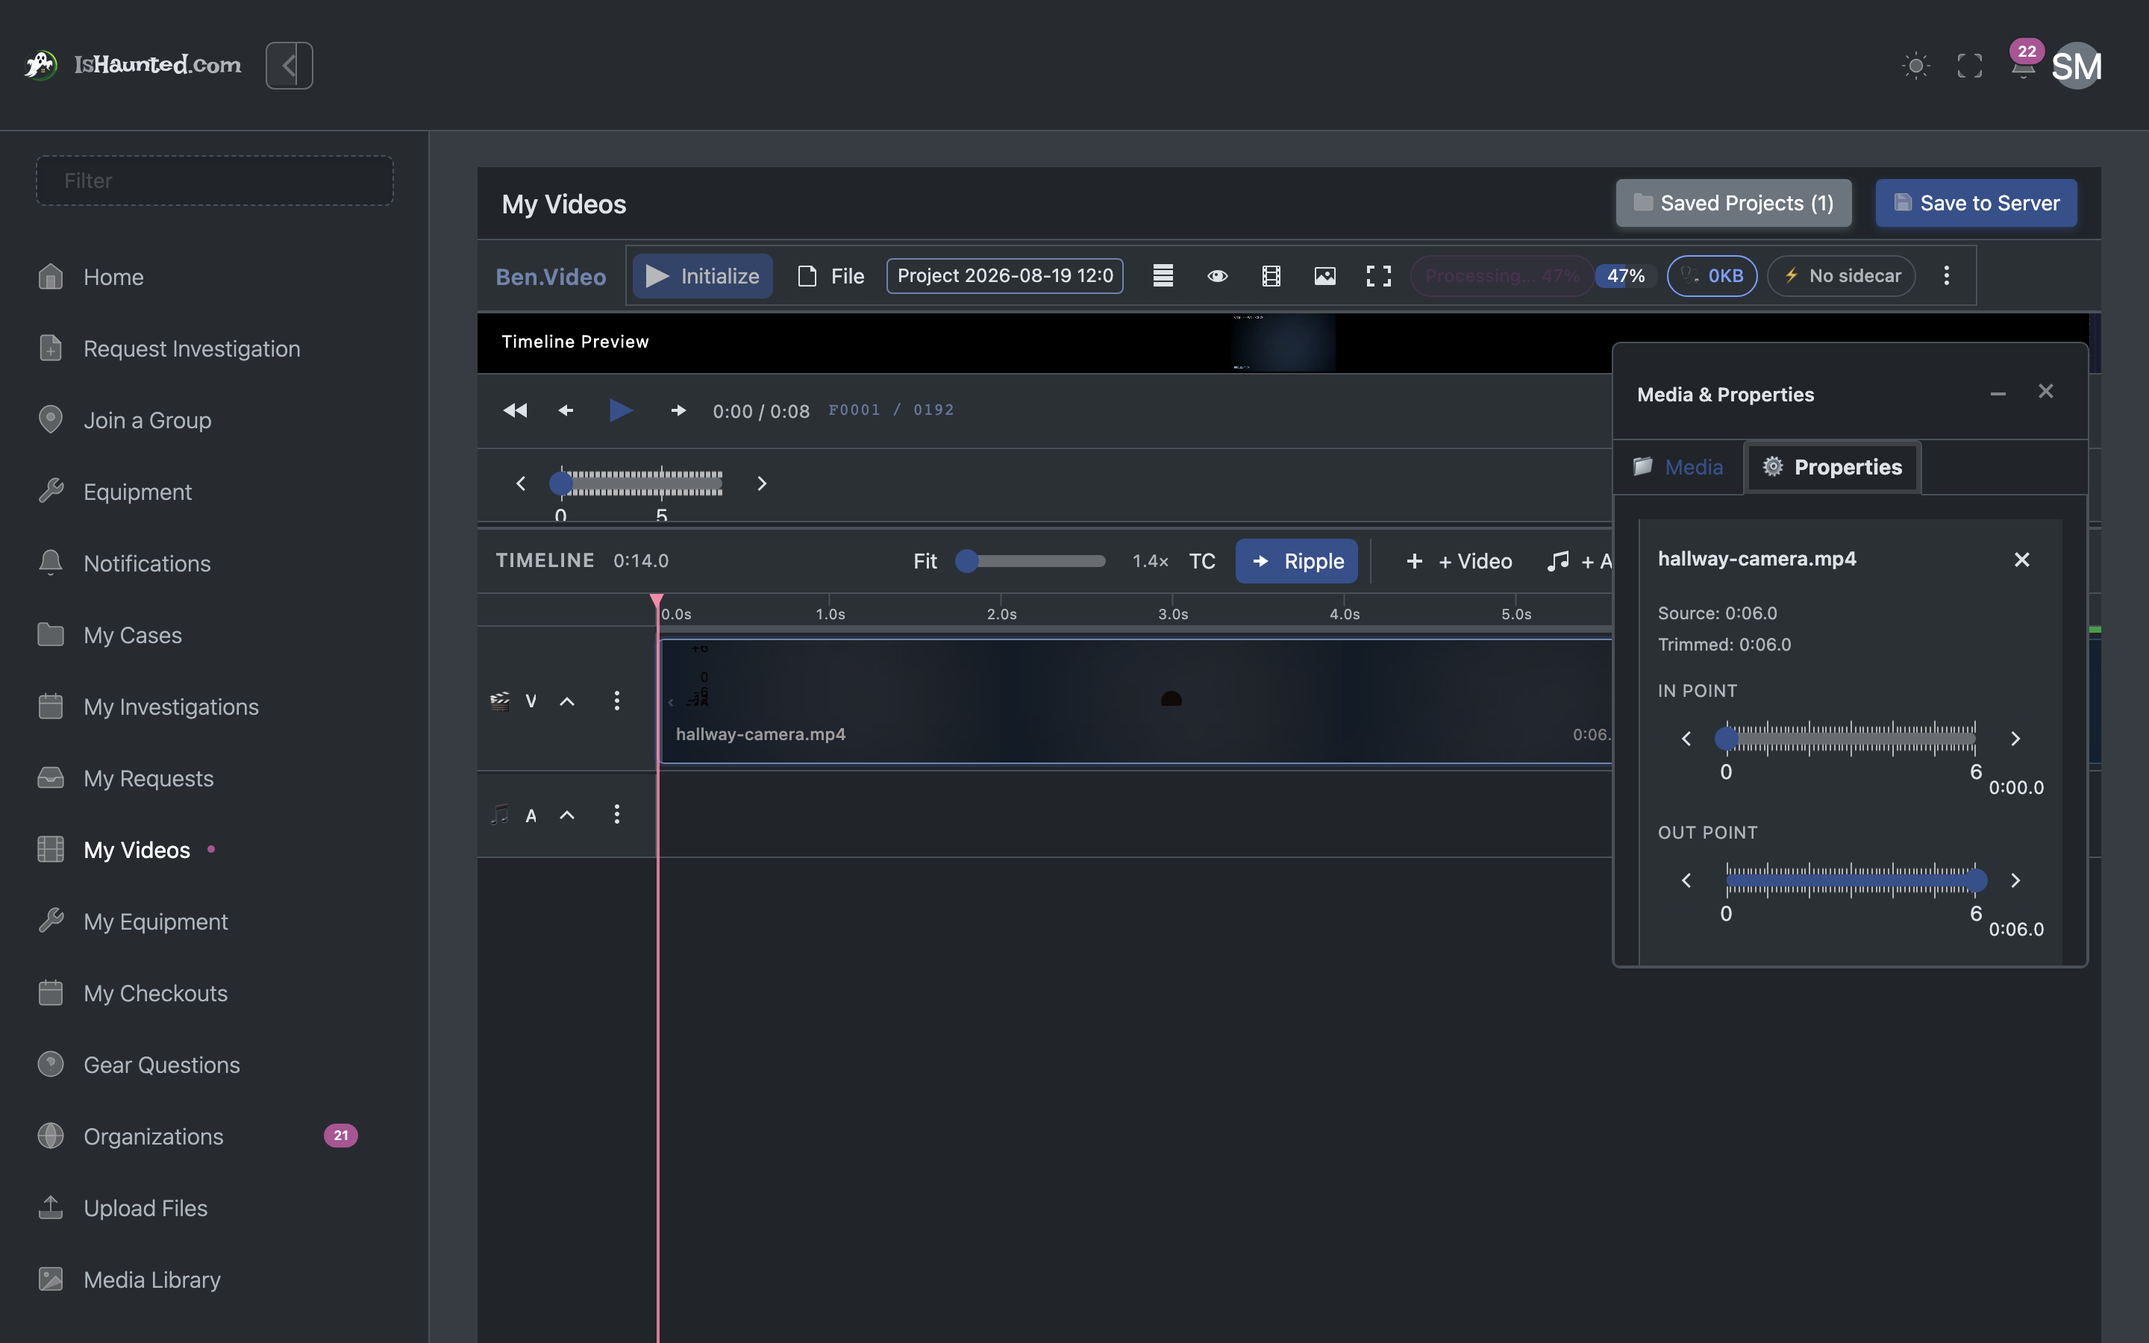
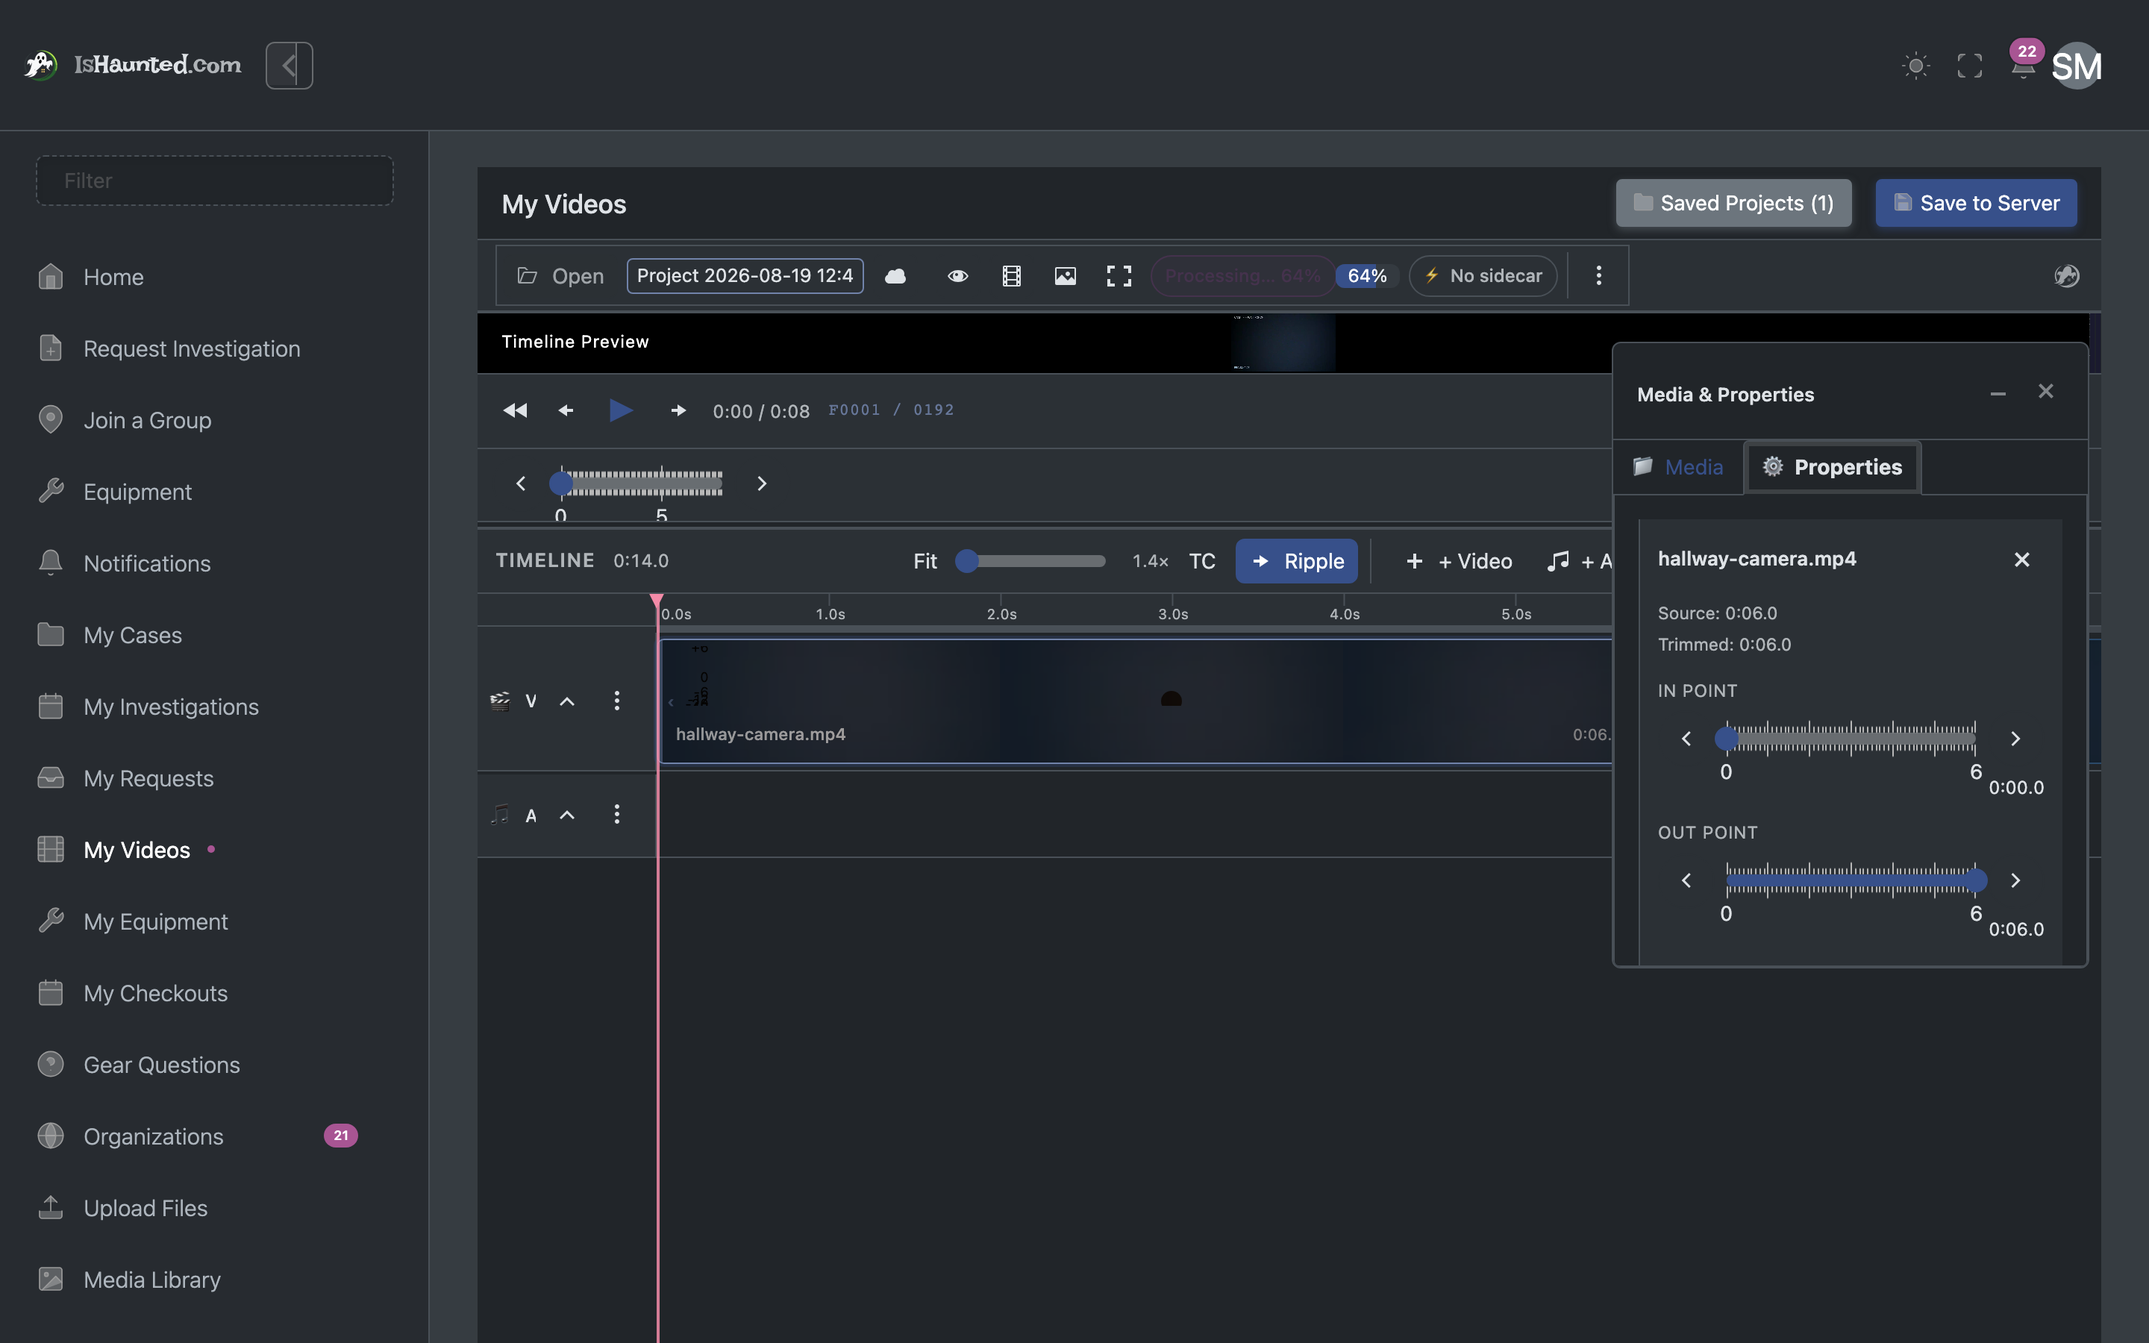
fix: a clip with no audio produced a render command ffmpeg refuses
Backlog item 94, partly. BuildBackgroundRenderVideoArgs decided whether to
map audio from the export settings and the clip's mute flag, never from
whether the source has an audio stream at all. A video-only file — a
screen recording, a trail camera, an exported animation, or the demo
footage added yesterday — took the "has audio" branch and emitted
-map 0:a, which ffmpeg refuses outright:

    Stream map '' matches no streams.

Verified against the real binary rather than assumed. The probe already
found the audio stream to read its duration; it now reports whether there
was one, VideoClip.HasAudio carries it, and the builder attaches the same
silent anullsrc track it already used for muted clips, so segments keep
the identical audio layout that stream-copy concat depends on.

HasAudio defaults to true so a project saved before this comes back with
its sound rather than silently muted — the worse of the two failures,
because nothing about it looks wrong.

This is not the whole of item 94: the stall moved from 47% to 64% and
still happens when a clip is selected. The note there records what the
evidence now says — a command hung in the worker with no operation ever
logged, and a watchdog that never declares it wedged, so the user is left
with a progress bar that stopped and no way out but a reload.

Three tests cover the builder (one fails against the old code) and three
more pin that a failed exec never leaves the service stuck at Processing.

Changed region(s): [[0.2188, 0.1867, 0.8125, 0.2489], [0.9375, 0.1867, 0.9688, 0.2178], [0.8438, 0.1867, 0.875, 0.2178]]

diff --git a/Ben.Video.Editor/wwwroot/js/ffmpegInterop.js b/Ben.Video.Editor/wwwroot/js/ffmpegInterop.js
@@ -309,6 +309,12 @@ export async function getMetadata(inputName, timeoutMs) {
         duration: parseFloat(video.duration ?? audio.duration ?? '0'),
         width: parseInt(video.width ?? '0', 10),
         height: parseInt(video.height ?? '0', 10),
+        // Whether the file actually carries sound. Render commands map an audio stream, and
+        // mapping one that does not exist fails the whole command ("Stream map '0:a' matches no
+        // streams") — which in the worker presents as a render that never finishes rather than
+        // as an error. Plenty of real footage has no audio: screen recordings, trail cameras,
+        // exported animations.
+        hasAudio: !!audio.codec_type,
     };
 }
 

diff --git a/Ben.Web.Playwright/Capture/HelpMediaCapture.cs b/Ben.Web.Playwright/Capture/HelpMediaCapture.cs
@@ -415,10 +415,7 @@ public sealed class HelpMediaCapture : BenTestBase
         // Captured before the overlays below: adding one starts a background render, and Export
         // is disabled while ffmpeg is working. See backlog item 94 — that render does not always
         // finish, which is a defect in its own right and not something to wait on here.
-        await WaitForAsync(
-            async () => (await Page.Locator(".bv-toolbar__status").First.InnerTextAsync())
-                        .Contains("Ready", StringComparison.OrdinalIgnoreCase),
-            240, "ffmpeg never went back to Ready, so Export stayed disabled");
+        await WaitForReadyWithTrailAsync(240);
 
         await Page.GetByTitle("Render the final video locally in the browser (ffmpeg.wasm), then save or upload")
                   .First.ClickAsync();
@@ -557,6 +554,42 @@ public sealed class HelpMediaCapture : BenTestBase
     }
 
     private bool _capturedImportDialog;
+
+    /// <summary>
+    /// Waits for ffmpeg to go back to Ready, recording what the status said along the way.
+    /// </summary>
+    /// <remarks>
+    /// The trail is the whole point: a background render that is merely slow and one that is
+    /// wedged look identical in a single reading, and the difference decides whether the fix is
+    /// "wait longer" or "something is broken". Reporting the samples turns that into evidence.
+    /// </remarks>
+    private async Task WaitForReadyWithTrailAsync(int seconds)
+    {
+        var status = Page.Locator(".bv-toolbar__status").First;
+        var trail = new List<string>();
+        var deadline = DateTime.UtcNow.AddSeconds(seconds);
+        var started = DateTime.UtcNow;
+
+        while (DateTime.UtcNow < deadline)
+        {
+            var text = (await status.InnerTextAsync()).Trim();
+            var sample = $"{(int)(DateTime.UtcNow - started).TotalSeconds}s:{text}";
+            if (trail.Count == 0 || trail[^1][(trail[^1].IndexOf(':') + 1)..] != text)
+                trail.Add(sample);
+
+            if (text.Contains("Ready", StringComparison.OrdinalIgnoreCase))
+            {
+                TestContext.Out.WriteLine("render trail: " + string.Join(" → ", trail));
+                return;
+            }
+
+            await Page.WaitForTimeoutAsync(3_000);
+        }
+
+        await ReportEditorStateAsync(
+            "ffmpeg never went back to Ready, so Export stayed disabled.\n"
+            + "  render trail: " + string.Join(" → ", trail));
+    }
 
     /// <summary>Polls a condition, and reports what the editor was showing when it never came true.</summary>
     private async Task WaitForAsync(Func<Task<bool>> condition, int seconds, string whatFailed)

diff --git a/Ben.Video.Tests/Services/FfmpegServiceRecoveryTests.cs b/Ben.Video.Tests/Services/FfmpegServiceRecoveryTests.cs
@@ -55,6 +55,57 @@ public sealed class FfmpegServiceRecoveryTests
             => InvokeAsync<TValue>(identifier, args);
     }
 
+    // ── A failed command must not leave the service pinned at Processing ─────
+    // Backlog item 94. A background render froze at a percentage with Export disabled behind it
+    // and no ffmpeg operation in flight — the state machine had entered Processing and never
+    // come out, because every escape from a command that fails (a throw from the module, or a
+    // non-zero exit code) bypassed the SetState(Ready) that only sat on the success path.
+    //
+    // A failing command is ordinary — a bad filter, a stream that is not there — and the core
+    // survives it. What must not survive it is a status chip that says "Processing… 64%" forever.
+
+    [Fact]
+    public async Task ExecAsync_WhenTheModuleThrows_ReturnsToReady()
+    {
+        var js = new MultiModuleFakeJsRuntime();
+        js.FfmpegModule.ThrowingIdentifiers.Add("exec");
+
+        var svc = new FfmpegService(js, new ErrorLogService(), new MemFsLedger(), new WorkerWatchdog());
+        await svc.LoadAsync();
+
+        await Assert.ThrowsAsync<InvalidOperationException>(() => svc.ExecAsync(["-i", "in.mp4", "out.mp4"]));
+
+        Assert.NotEqual(FfmpegState.Processing, svc.State);
+    }
+
+    [Fact]
+    public async Task ExecAsync_WhenFfmpegExitsNonZero_ReturnsToReady()
+    {
+        var js = new MultiModuleFakeJsRuntime();
+        js.FfmpegModule.Results["exec"] = 1;          // ffmpeg refused the command
+
+        var svc = new FfmpegService(js, new ErrorLogService(), new MemFsLedger(), new WorkerWatchdog());
+        await svc.LoadAsync();
+
+        await Assert.ThrowsAnyAsync<Exception>(() => svc.ExecAsync(["-i", "in.mp4", "-map", "0:a", "out.mp4"]));
+
+        Assert.NotEqual(FfmpegState.Processing, svc.State);
+    }
+
+    [Fact]
+    public async Task ConcatCopyAsync_WhenFfmpegExitsNonZero_ReturnsToReady()
+    {
+        var js = new MultiModuleFakeJsRuntime();
+        js.FfmpegModule.Results["concatCopy"] = 1;
+
+        var svc = new FfmpegService(js, new ErrorLogService(), new MemFsLedger(), new WorkerWatchdog());
+        await svc.LoadAsync();
+
+        await Assert.ThrowsAnyAsync<Exception>(() => svc.ConcatCopyAsync(["a.mp4", "b.mp4"], "out.mp4"));
+
+        Assert.NotEqual(FfmpegState.Processing, svc.State);
+    }
+
     // ── ExtractAudioAsync nested-state bug ───────────────────────────────────
 
     [Fact]

diff --git a/Ben.Video.Tests/Services/ExportArgBuildersTests.cs b/Ben.Video.Tests/Services/ExportArgBuildersTests.cs
@@ -2093,6 +2093,39 @@ public sealed class ExportArgBuildersTests
     }
 
     [Fact]
+    public void BuildBackgroundRenderVideoArgs_SourceWithoutAudio_AddsSyntheticSilentAudioInput()
+    {
+        // A source with no audio stream at all is a third case, distinct from "muted" and from
+        // "audio turned off in settings": the settings say to include audio and the clip is not
+        // muted, but there is nothing to include. Mapping 0:a here makes ffmpeg refuse the whole
+        // command — "Stream map '0:a' matches no streams" — and in the wasm worker that surfaces
+        // as a background render frozen at a percentage with Export disabled behind it, which is
+        // exactly how it was found. Screen recordings, trail cameras and exported animations all
+        // arrive this way.
+        var s = new ExportSettings { IncludeAudio = true };
+        var args = ExportArgBuilders.BuildBackgroundRenderVideoArgs(
+            "in.mp4", "out.mp4", 0, 5, 1.0, s, muteAudio: false, sourceHasAudio: false);
+
+        Assert.DoesNotContain("0:a", args);
+        AssertSubsequence(args, ["-f", "lavfi", "-i", "anullsrc=channel_layout=stereo:sample_rate=48000"]);
+        AssertSubsequence(args, ["-map", "0:v", "-map", "1:a"]);
+    }
+
+    [Fact]
+    public void BuildBackgroundRenderVideoArgs_SourceWithAudio_StillMapsItDirectly()
+    {
+        // The default must stay "the source has audio": a project saved before clips recorded
+        // this would otherwise come back silent, which is a worse failure than the one being
+        // fixed because nothing about it looks broken.
+        var s = new ExportSettings { IncludeAudio = true };
+        var args = ExportArgBuilders.BuildBackgroundRenderVideoArgs(
+            "in.mp4", "out.mp4", 0, 5, 1.0, s, muteAudio: false);
+
+        AssertSubsequence(args, ["-map", "0:v", "-map", "0:a"]);
+        Assert.DoesNotContain("anullsrc", string.Join(' ', args));
+    }
+
+    [Fact]
     public void BuildBackgroundRenderVideoArgs_Muted_AddsSyntheticSilentAudioInput()
     {
         var s = new ExportSettings { IncludeAudio = true };

diff --git a/Ben.Video.Core/Services/ExportArgBuilders.cs b/Ben.Video.Core/Services/ExportArgBuilders.cs
@@ -249,9 +249,17 @@ internal static class ExportArgBuilders
     internal static string[] BuildBackgroundRenderVideoArgs(
         string input, string output, double start, double end, double speed, ExportSettings s,
         string? audioVolumeFilter = null, ClipEffects? effects = null, bool muteAudio = false,
-        string? extraVf = null, int outputWidth = 0, int outputHeight = 0)
+        string? extraVf = null, int outputWidth = 0, int outputHeight = 0,
+        bool sourceHasAudio = true)
     {
-        var hasRealAudio = s.IncludeAudio && !muteAudio;
+        // Three separate things decide whether real audio is used, and only two of them used to
+        // be consulted. A source with no audio stream at all — a screen recording, a trail
+        // camera, an exported animation — took the "has audio" branch and ended up with
+        // "-map 0:a", which ffmpeg refuses outright: "Stream map '0:a' matches no streams".
+        // The command never runs, and in the wasm worker that presents as a background render
+        // stuck at a percentage with Export disabled behind it, rather than as an error anyone
+        // can see.
+        var hasRealAudio = s.IncludeAudio && !muteAudio && sourceHasAudio;
 
         var args = new List<string> { "-i", input };
         if (!hasRealAudio)

diff --git a/Ben.Video.Core/Models/VideoClip.cs b/Ben.Video.Core/Models/VideoClip.cs
@@ -75,6 +75,21 @@ public sealed record VideoClip : TrackItem, IHasVolumeAutomation
     public bool MuteAudio { get; set; }
 
     /// <summary>
+    /// Whether the source file has an audio stream at all, as opposed to having one the user has
+    /// muted (<see cref="MuteAudio"/>).
+    /// </summary>
+    /// <remarks>
+    /// Render commands attach a silent track to clips without sound, so that every rendered
+    /// segment has the same audio layout and the segments stay concat-compatible. Getting this
+    /// wrong in the "has audio" direction is not a cosmetic error: ffmpeg refuses the whole
+    /// command with "Stream map '0:a' matches no streams".
+    ///
+    /// Defaults to true, so clips restored from a project saved before this existed behave as
+    /// they did rather than being silenced.
+    /// </remarks>
+    public bool HasAudio { get; set; } = true;
+
+    /// <summary>
     /// Returns the linearly-interpolated gain at a normalised position [0,1] within the clip.
     /// Falls back to the scalar <see cref="Volume"/> when fewer than 2 keyframes are present.
     /// </summary>

diff --git a/Ben.Video.Editor/Services/FfmpegService.cs b/Ben.Video.Editor/Services/FfmpegService.cs
@@ -831,7 +831,15 @@ public sealed class FfmpegService : IAsyncDisposable
 }
 
 /// <summary>Metadata returned by ffprobe for a video stream.</summary>
-public sealed record VideoMetadata(double Duration, int Width, int Height);
+/// <summary>
+/// What a probe learned about a media file.
+/// </summary>
+/// <param name="HasAudio">
+/// Whether the file carries an audio stream. Defaults to true so a probe that predates this — a
+/// saved project, or a sidecar that has not been updated — keeps the behaviour it had rather than
+/// suddenly silencing clips that do have sound.
+/// </param>
+public sealed record VideoMetadata(double Duration, int Width, int Height, bool HasAudio = true);
 
 /// <summary>One worker command's outcome, as recorded in <see cref="FfmpegService.OperationTrace"/>
 /// (item #59-#65 flakiness investigation, phase 141).</summary>

diff --git a/Ben.Video.Editor/Services/RenderWorkerBackend.cs b/Ben.Video.Editor/Services/RenderWorkerBackend.cs
@@ -74,7 +74,8 @@ public sealed class RenderWorkerBackend : IRenderBackend
                     inputName, segmentName, start, end, videoClip.Speed, settings,
                     volumeFilter, videoClip.Effects, videoClip.MuteAudio,
                     extraVf: string.IsNullOrEmpty(appliedVf) ? null : appliedVf,
-                    outputWidth: previewWidth, outputHeight: previewHeight);
+                    outputWidth: previewWidth, outputHeight: previewHeight,
+                    sourceHasAudio: videoClip.HasAudio);
 
                 var code = await _worker.ExecAsync(args);
                 if (code != 0) return RenderJobResult.Failed($"ffmpeg exit code {code}");

diff --git a/ProjectNotes/Future-Improvements.md b/ProjectNotes/Future-Improvements.md
@@ -4723,7 +4723,43 @@ exact trigger was never confirmed live. This one has a reproducible-looking reci
 lacked, so it is worth trying to reproduce by hand before assuming they are the same.
 
 Reproduce with the seeded demo footage: `/my-videos`, Initialize, import `porch-camera.mp4` and
-`hallway-camera.mp4` from the Server tab, click a clip, then add a text overlay and a callout.
+`hallway-camera.mp4` from the Server tab, then **click a clip on the timeline**. That last step is
+the trigger; importing alone renders fine (`exec 4.6s`, `concatClips 3.9s`, both ✓).
+
+### Investigated 2026-08-19 — one cause found and fixed, one still open
+
+**Fixed: a source with no audio stream produced an invalid command.**
+`BuildBackgroundRenderVideoArgs` decided whether to map audio from the export settings and the
+clip's mute flag alone, never from whether the file actually has an audio stream. For a video-only
+source it emitted `-map 0:a`, which ffmpeg refuses outright — verified against the real binary:
+
+```
+Stream map '' matches no streams.  To ignore this, add a trailing '?' to the map.
+```
+
+The probe now reports `hasAudio`, `VideoClip.HasAudio` carries it (defaulting true, so projects
+saved before this are not silenced), and the builder attaches the silent `anullsrc` track it
+already had for muted clips. Three tests, one of which fails against the old code. This moved the
+stall from 47% to 64% — it did not cure it.
+
+**Still open: what actually freezes.** With a clip selected, the status chip sits at
+`Processing… 64%` for four minutes and more. The evidence says a command is hung in the worker
+rather than the state machine being wrong:
+
+- the operation trace records entries *on completion*, and shows **nothing** after the selection;
+- `FfmpegState` is `Processing`, and the paths that fail cleanly set `Error` instead — covered by
+  three new tests in `FfmpegServiceRecoveryTests` asserting a failed exec never leaves the service
+  pinned at Processing;
+- the ffmpeg log tail ends in five × `Aborted()`, which is how ffmpeg.wasm reports an internal
+  abort;
+- **the `WorkerWatchdog` never declared it wedged**, so the chip never offered its "⚠ Stuck —
+  Reset?" affordance and the user has no way out short of reloading.
+
+Two things to chase next: which command is issued when a clip is selected (a fine-pass render is
+the likely candidate, and the diagnostics panel does not name the command — only the log tail), and
+why the watchdog does not fire on a promise that never settles. The second matters more: whatever
+the trigger, a hung worker should surface as an offer to reset rather than as a progress bar that
+stopped.
 
 
 ---
